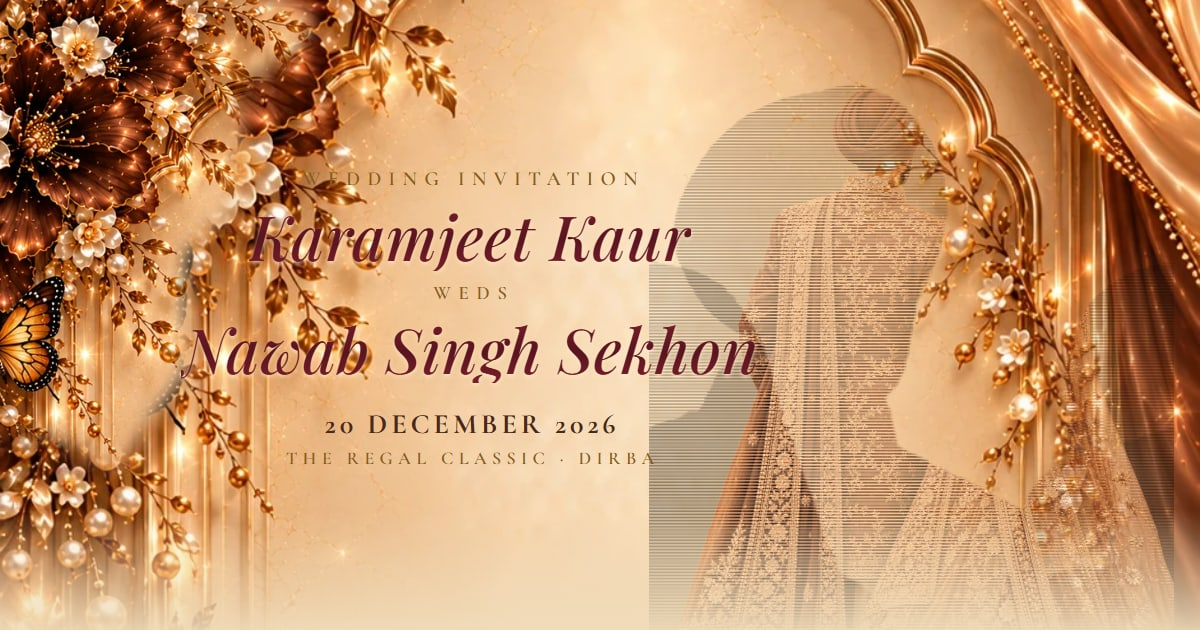
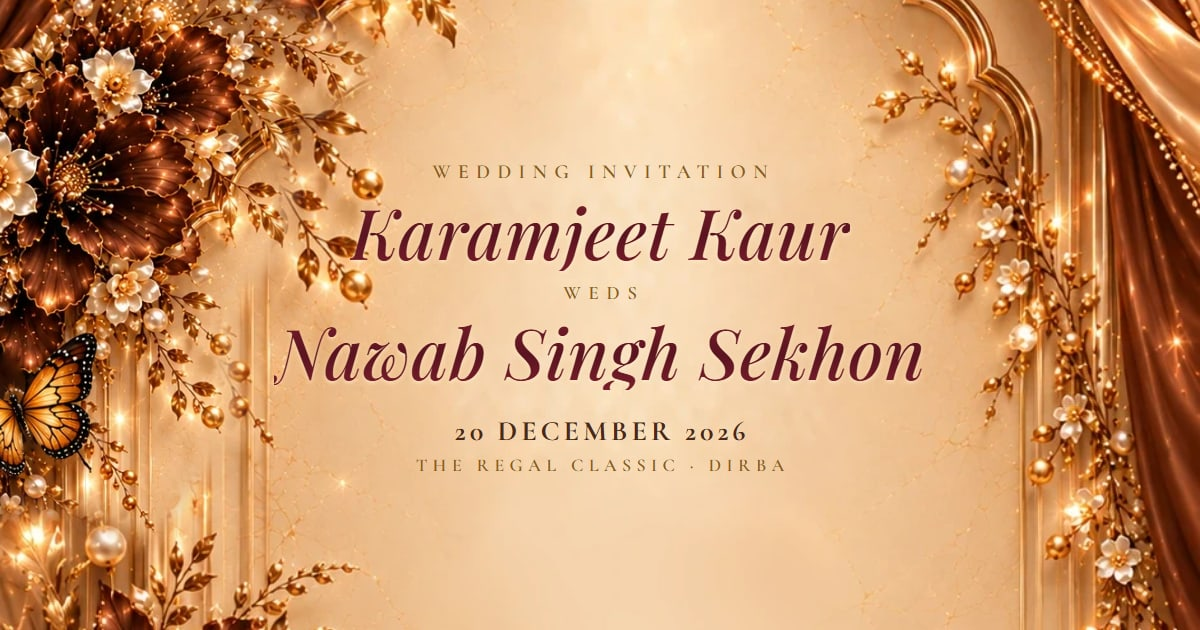
karamjeet-nawab-wedding: new link preview, plain seal, butterflies that flap in place, three-line date, hero and Save the Date positions, map button for the pre-wedding day

diff --git a/public/karamjeet-nawab-wedding/js/app.js b/public/karamjeet-nawab-wedding/js/app.js
@@ -24,10 +24,18 @@ const H = C.hero, B = C.couple;
 const image = (id, src, alt, { delay = 0, z = 3, cls = '', slow = false } = {}) =>
   h('div', { class: `s reveal ${slow ? 'slow' : ''} ${cls}`, style: { ...box(id), zIndex: z, '--d': `${delay}s` } }, h('img', { src, alt, decoding: 'async', draggable: 'false' }));
 
-/* ── 1 · the invitation ── */
+/* a butterfly that flaps where it sits: the design's own painted butterfly, cut out by the build tool, over a
+   wall made whole beneath it. The picture is pressed towards its body line and let out again (the wings
+   closing and opening), and the whole of it rises and settles a hair, so it looks alive without leaving its place.
+   angle = the direction across the body, ox/oy = the body's place in the picture (%). */
+const flap = (id, { angle, ox, oy, t, del, z = 2 }) => h('div', { class: 's bf', style: { ...box(id), zIndex: z, '--bt': `${(t * 1.9).toFixed(2)}s`, '--bd': `${del}s` }, 'aria-hidden': 'true' },
+  h('img', { src: `assets/${id}.webp`, alt: '', decoding: 'async', draggable: 'false', style: { transformOrigin: `${ox}% ${oy}%`, '--a': `${angle}deg`, '--t': `${t}s`, '--d': `${del}s` } }));
+
+/* ── the invitation ── */
 const page1 = Page(1, [
   spr('p1-flowers-a', { still: true, motion: 'sway soft', origin: '0% 45%', z: 1 }),
   spr('p1-flowers-b', { still: true, motion: 'sway soft alt', origin: '0% 50%', z: 1 }),
+  flap('bf-hero', { angle: -16, ox: 41, oy: 52, t: 2.9, del: -0.4, z: 2 }),
   H.ikOnkar ? image('h-ik', H.ikOnkar, 'Ik Onkar', { delay: 0.1 }) : null,
   live('h-blessings', H.blessings, { size: 2.6, cls: 'serif italic', delay: 0.25 }),
   sprAt('h-rule1', 'p1-rule1', { delay: 0.35 }),
@@ -64,6 +72,8 @@ const page2 = Page(2, [
   spr('p2-flowers-b', { still: true, motion: 'sway soft alt', origin: '100% 20%', z: 1 }),
   spr('p2-flowers-c', { still: true, motion: 'sway soft alt', origin: '0% 60%', z: 1 }),
   spr('p2-flowers-d', { still: true, motion: 'sway soft', origin: '100% 60%', z: 1 }),
+  flap('bf-a', { angle: -49, ox: 43, oy: 72, t: 2.6, del: -1.1, z: 2 }),
+  flap('bf-b', { angle: 52, ox: 48, oy: 75, t: 3.1, del: -0.2, z: 2 }),
   spr('p2-title', { delay: 0.2, alt: 'Reveal Our Date' }),
   spr('p2-rule', { delay: 0.45 }),
   spr('p2-click', { delay: 0.6, alt: 'Click the button' }),
@@ -83,7 +93,7 @@ const mapsBtn = (day, label) => { const a = openMaps(day, [glyph(PIN), h('span',
 const schedule = (day) => h('ol', { class: 'timeline' }, ...day.schedule.map(([t, what, note]) => h('li', { class: t ? '' : 'no-time' },
   t ? h('time', {}, t) : null, h('span', {}, what, note ? h('em', {}, note) : null))));
 const venue = (day) => h('div', { class: 'venue' }, h('p', { class: 'venue-name' }, day.venue), h('p', { class: 'venue-addr' }, ...day.address.flatMap((l, i) => (i ? [h('br'), l] : [l]))));
-const actions = (day) => h('div', { class: `actions ${day.mapsUrl ? '' : 'one'}` }, saveBtn(day, SD.button), day.mapsUrl ? mapsBtn(day, 'Open in Google Maps') : null);
+const actions = (day) => h('div', { class: `actions ${day.mapsUrl ? '' : 'one'}` }, saveBtn(day, SD.button), day.mapsUrl ? mapsBtn(day, SD.maps) : null);
 
 const dayPage = (day) => () => Page(4, [
   live('d4-title', day.titleLines || day.title, { size: 4.1, cls: 'serif caps burgundy', delay: 0.15 }),

diff --git a/public/karamjeet-nawab-wedding/js/layout.js b/public/karamjeet-nawab-wedding/js/layout.js
@@ -5,20 +5,25 @@ import { art } from './art.js';
 Object.assign(art, {
   /* page 1: the invitation, centred on the arch (its axis is at 52.4 %). One vertical rhythm from the arch's
      point down to 53 %; the couple stand below it, on the right, from 58 % */
-  'h-ik': { x: 46.4, y: 12.5, w: 12, h: 3.55 },         /* 419×220 */
-  'h-blessings': { x: 30.4, y: 16.9, w: 44, h: 3.8 },
-  'h-rule1': { x: 40.4, y: 21.2, w: 24, h: 1.913 },
-  'h-parents': { x: 26.4, y: 23.7, w: 52, h: 4.6 },
-  'h-request': { x: 26.4, y: 29.0, w: 52, h: 5.6 },
-  'h-bride': { x: 22.4, y: 35.6, w: 60, h: 4.0 },
-  'h-with': { x: 37.4, y: 40.5, w: 30, h: 1.4 },
-  'h-groom': { x: 22.4, y: 42.6, w: 60, h: 4.0 },
-  'h-rule2': { x: 40.4, y: 47.6, w: 24, h: 1.913 },
-  'h-date': { x: 22.4, y: 50.4, w: 60, h: 1.5 },
-  'h-venue': { x: 22.4, y: 52.4, w: 60, h: 1.6 },
+  'h-ik': { x: 46.4, y: 14.7, w: 12, h: 3.55 },         /* 419×220 */
+  'h-blessings': { x: 30.4, y: 19.1, w: 44, h: 3.8 },
+  'h-rule1': { x: 40.4, y: 23.4, w: 24, h: 1.913 },
+  'h-parents': { x: 26.4, y: 25.9, w: 52, h: 4.6 },
+  'h-request': { x: 26.4, y: 31.2, w: 52, h: 5.6 },
+  'h-bride': { x: 22.4, y: 37.8, w: 60, h: 4.0 },
+  'h-with': { x: 37.4, y: 42.7, w: 30, h: 1.4 },
+  'h-groom': { x: 22.4, y: 44.8, w: 60, h: 4.0 },
+  'h-rule2': { x: 40.4, y: 49.8, w: 24, h: 1.913 },
+  'h-date': { x: 22.4, y: 52.6, w: 60, h: 1.5 },
+  'h-venue': { x: 22.4, y: 54.6, w: 60, h: 1.6 },
   /* the couple: 1086×1448, 56 % of the page wide, reaching a little past the right edge as the design's own
      couple did; the picture's cut lower edge dissolves into the mist at the foot of the page */
-  'h-couple': { x: 46, y: 58.2, w: 56, h: 42.02 },
+  'h-couple': { x: 46, y: 59.4, w: 56, h: 42.02 },
+
+  /* the three butterflies that flap in place: the rectangles the build tool cut them from */
+  'bf-hero': { x: 0, y: 26.316, w: 16.578, h: 10.287 },
+  'bf-a': { x: 68.013, y: 35.287, w: 14.878, h: 10.646 },
+  'bf-b': { x: 15.515, y: 52.392, w: 15.197, h: 9.211 },
 
   /* the families on plate 7, inside the frame's clear middle */
   'm-b-label': { x: 25, y: 27.4, w: 50, h: 1.4 },
@@ -57,11 +62,11 @@ Object.assign(art, {
   /* Save the Date on plate 5. The card and the two buttons are ONE block: the same left and right edges
      (11–89 %), a clear gap between the card and the buttons, the two buttons equal with a gap between them.
      (On the design's reference page the card was narrower than the button row and sat on top of it.) */
-  'sd-title': { x: 15, y: 13.8, w: 70, h: 5.6 },
-  'sd-rule': { x: 40.914, y: 20.4, w: 18.597, h: 1.794 },
-  'sd-names': { x: 20, y: 22.9, w: 60, h: 4.2 },
-  'sd-venue': { x: 20, y: 28.0, w: 60, h: 1.9 },
-  'sd-addr': { x: 20, y: 30.2, w: 60, h: 1.7 },
+  'sd-title': { x: 15, y: 17.0, w: 70, h: 5.6 },
+  'sd-rule': { x: 40.914, y: 23.6, w: 18.597, h: 1.794 },
+  'sd-names': { x: 20, y: 26.1, w: 60, h: 4.2 },
+  'sd-venue': { x: 20, y: 31.2, w: 60, h: 1.9 },
+  'sd-addr': { x: 20, y: 33.4, w: 60, h: 1.7 },
   'sd-card': { x: 11, y: 40.3, w: 78, h: 11.3 },
   'sd-save': { x: 11, y: 52.9, w: 38.2, h: 7.5 },
   'sd-maps': { x: 50.8, y: 52.9, w: 38.2, h: 7.5 },

diff --git a/public/karamjeet-nawab-wedding/css/client.css b/public/karamjeet-nawab-wedding/css/client.css
@@ -162,3 +162,21 @@ a.sd-btn .ico { color: var(--burgundy); }
 .actions { display: flex; justify-content: center; align-items: stretch; gap: 2.4cqw; margin-top: 4cqw; }
 .actions .sd-btn { flex: 0 0 auto; width: calc((100% - 2.4cqw) / 2); height: 11cqw; font-size: 2.75cqw; }
 .actions.one .sd-btn { width: 46cqw; }
+
+/* the date on the parchment: three centred lines — 20th / December / 2026 */
+.s.live.date3 { flex-direction: column; gap: .5cqw; white-space: nowrap; line-height: 1.1; }
+.s.live.date3 > span { display: block; text-align: center; }
+.s.live.date3 .d-day { font-weight: 600; font-size: 1.55em; line-height: 1; }
+.s.live.date3 .d-day sup { font-size: .5em; vertical-align: .72em; margin-left: .04em; }
+
+/* butterflies that flap in place */
+.bf { pointer-events: none; animation: bf-rise var(--bt, 5s) ease-in-out var(--bd, 0s) infinite; will-change: transform; }
+.bf > img { display: block; width: 100%; height: 100%; max-width: none; animation: bf-flap var(--t, 2.8s) ease-in-out var(--d, 0s) infinite; will-change: transform; backface-visibility: hidden; }
+@keyframes bf-flap {
+  0%, 46%, 100% { transform: rotate(var(--a)) scaleX(1) rotate(calc(-1 * var(--a))); }
+  8%, 24%, 38% { transform: rotate(var(--a)) scaleX(.5) rotate(calc(-1 * var(--a))); }
+  16%, 31% { transform: rotate(var(--a)) scaleX(.96) rotate(calc(-1 * var(--a))); }
+  70% { transform: rotate(var(--a)) scaleX(.72) rotate(calc(-1 * var(--a))); }
+}
+@keyframes bf-rise { 0%, 100% { transform: translateY(0); } 50% { transform: translateY(-.45cqw); } }
+@media (prefers-reduced-motion: reduce) { .bf, .bf > img { animation: none; } }

diff --git a/public/karamjeet-nawab-wedding/index.html b/public/karamjeet-nawab-wedding/index.html
@@ -14,8 +14,8 @@
 <meta property="og:url" content="https://invitivals.com/karamjeet-nawab-wedding/">
 <meta property="og:title" content="Karamjeet Kaur &amp; Nawab Singh Sekhon · Wedding Invitation">
 <meta property="og:description" content="20 December 2026 · The Regal Classic, Dirba. Tap to open the invitation.">
-<meta property="og:image" content="https://invitivals.com/karamjeet-nawab-wedding/assets/og.jpg">
-<meta property="og:image:secure_url" content="https://invitivals.com/karamjeet-nawab-wedding/assets/og.jpg">
+<meta property="og:image" content="https://invitivals.com/karamjeet-nawab-wedding/assets/og.jpg?v=2">
+<meta property="og:image:secure_url" content="https://invitivals.com/karamjeet-nawab-wedding/assets/og.jpg?v=2">
 <meta property="og:image:type" content="image/jpeg">
 <meta property="og:image:width" content="1200">
 <meta property="og:image:height" content="630">
@@ -23,7 +23,7 @@
 <meta name="twitter:card" content="summary_large_image">
 <meta name="twitter:title" content="Karamjeet Kaur &amp; Nawab Singh Sekhon · Wedding Invitation">
 <meta name="twitter:description" content="20 December 2026 · The Regal Classic, Dirba. Tap to open the invitation.">
-<meta name="twitter:image" content="https://invitivals.com/karamjeet-nawab-wedding/assets/og.jpg">
+<meta name="twitter:image" content="https://invitivals.com/karamjeet-nawab-wedding/assets/og.jpg?v=2">
 <link rel="icon" href="favicon.svg" type="image/svg+xml">
 <link rel="preload" as="image" href="assets/opening.webp" fetchpriority="high">
 <link rel="preload" as="image" href="assets/plate1.webp">

diff --git a/public/karamjeet-nawab-wedding/config.js b/public/karamjeet-nawab-wedding/config.js
@@ -40,7 +40,7 @@ export const config = {
       key: 'day1', date: '19 December 2026', weekday: 'Saturday', title: 'Pre-Wedding Celebrations', titleLines: ['Pre-Wedding', 'Celebrations'], card: 'Shagan 3:00 PM · Jago 6:00 PM',
       schedule: [['3:00 PM', 'Shagan Ceremony'], ['6:00 PM', 'Jago Ceremony']],
       venue: 'Our Residence', address: ['Village Seona, PO Badshahpur.'],
-      mapsUrl: '', ics: 'event-19dec.ics', start: '2026-12-19T15:00:00+05:30', end: '2026-12-19T21:00:00+05:30' /* three hours after the Jago begins */,
+      mapsUrl: 'https://maps.app.goo.gl/pKNZnUQNF3oxxuLw8' /* the family's link for the residence (2026-11-14) */, ics: 'event-19dec.ics', start: '2026-12-19T15:00:00+05:30', end: '2026-12-19T21:00:00+05:30' /* three hours after the Jago begins */,
       calendarTitle: 'Karamjeet Kaur & Nawab Singh Sekhon · Shagan & Jago',
     },
     {

diff --git a/public/karamjeet-nawab-wedding/js/date-reveal.js b/public/karamjeet-nawab-wedding/js/date-reveal.js
@@ -14,7 +14,7 @@ export function DateReveal(d) {
   const paperEl = h('div', { class: 's scroll-paper', style: { ...box('p2-paper'), zIndex: 3, '--closed': `${closedInset}%` } }, h('img', { src: 'assets/p2-paper.webp', alt: '', decoding: 'async' }));
   const rollerEl = h('div', { class: 's scroll-roller', style: { ...box('p2-roller'), zIndex: 4, '--travel': `-${travel}%` } }, h('img', { src: 'assets/p2-roller.webp', alt: '', decoding: 'async' }));
   const date = h('div', { class: 's live wrap serif hold date3', style: { ...box('p2-date3'), zIndex: 5, fontSize: '4.6cqw' } },
-    h('b', {}, d.day, h('sup', {}, d.suffix)), h('br'), d.month, h('br'), d.year);
+    h('span', { class: 'd-day' }, d.day, h('sup', {}, d.suffix)), h('span', {}, d.month), h('span', {}, d.year));
   const words = [
     date,
     spr('p2-daterule', { cls: 'hold', z: 5, still: true }),
